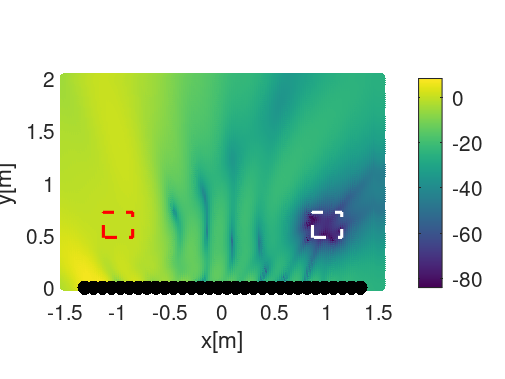
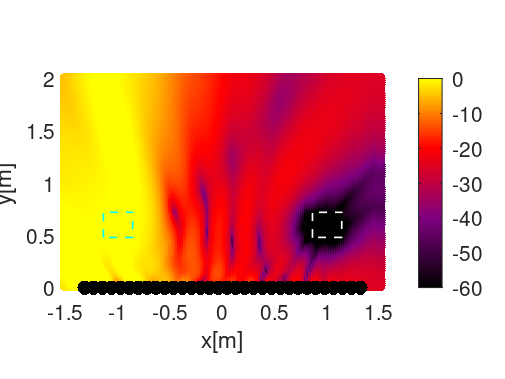
mainでの一括設定・音圧分布のカラー/破線変更

diff --git a/main.m b/main.m
@@ -16,19 +16,27 @@ pltSPL = true;    % pltSPL = 空間全体の音圧レベル分布図
 mthd_ctrl = "pm"; % 音場制御の手法 = PM法
 
 %% -------------------------------------------------------------------------
+%% 空間および制御ゾーンの設定
+%% -------------------------------------------------------------------------
+% 部屋の大きさ [xの最小値, xの最大値, yの最小値, yの最大値]
+room_size = [-1.5, 1.5, 0.02, 2.0];
+itv_room = 0.02;          % 空間全体の計算用格子点の間隔 [m]
+
 %% スピーカーとマイクの配置
-%% -------------------------------------------------------------------------
 num_sp = 32;      % 使用するスピーカー数
-num_mic = 64;     % 使用する制御点の総数
-zone_h = 0.6;     % スピーカーアレイから、制御ゾーンの中心までの垂直距離 [m]
+% 制御ゾーン（Bz, Dz）の設定
+zone_h = 0.6;             % 制御ゾーンの中心高さ(y座標) [m]
+dist_zone = 2.0;          % BzとDzの中心間距離 [m]
+bz_size = [0.28, 0.24];   % Bzの大きさ [幅(x), 奥行き(y)] [m]
+dz_size = [0.28, 0.24];   % Dzの大きさ [幅(x), 奥行き(y)] [m]
 
-% 外部関数 pos_sp_mic.m を呼び出し、スピーカーとマイクの座標を取得
-% pos_sp  : スピーカーの座標行列 [32行 × 2列 (x, y)]
-% pos_mic : マイクの座標行列 [64行 × 2列 (x, y)]
-[pos_sp, pos_mic] = pos_sp_mic(num_sp, num_mic, zone_h, pltPos);
+% 制御点（マイク）の配置間隔 [x方向, y方向]
+itv_mic = [0.04, 0.08];
+
+[pos_sp, pos_mic, num_mic, num_bz] = pos_sp_mic(num_sp, zone_h,dist_zone, bz_size, dz_size, itv_mic, room_size, pltPos);
 
 %% -------------------------------------------------------------------------
-%% 自由空間の伝達関数計算 
+%% 自由空間の伝達関数計算
 %% -------------------------------------------------------------------------
 % 外部関数 IR_freefield.m を呼び出し、各スピーカーから各マイクへの音の伝わり方を計算
 % G_ctrl : 伝達関数行列[64マイク × 32スピーカー × 1周波数]
@@ -38,20 +46,18 @@ G_ctrl = IR_freefield(pos_mic, pos_sp, k);
 %% フィルターの算出と音場制御
 %% -------------------------------------------------------------------------
 % 外部関数 filter_pm.m を呼び出し、PM法に基づいてスピーカーの駆動重みを計算
-% drv : 各スピーカーに出力する複素数フィルター（振幅と位相の補正値）[32スピーカー × 1周波数]
-drv = filter_pm(pos_mic, G_ctrl, freq, ang_wave, amp_src, Nsrc, c);
+drv = filter_pm(pos_mic, G_ctrl, freq, ang_wave, amp_src, Nsrc, c,num_bz);
 
 %% -------------------------------------------------------------------------
 %% 制御結果の評価
 %% -------------------------------------------------------------------------
 % 各スピーカーの伝達関数にフィルターを掛け合わせ、制御点での合成音圧を計算
-% p_ctrl : 64個のマイク位置における実際の合成複素音圧 [64行 × 1列]
 p_ctrl = G_ctrl * drv;
 
 % マイク群を「Bz」と「Dz」に半分ずつ分割
 num_bz = num_mic / 2;          % BZのマイク数（32点）
-p_bz = p_ctrl(1:num_bz);       % 前半1〜32点：BZの音圧
-p_dz = p_ctrl(num_bz+1:end);   % 後半33〜64点：Dzの音圧
+p_bz = p_ctrl(1:num_bz);       % 前半：BZの音圧
+p_dz = p_ctrl(num_bz+1:end);   % 後半：Dzの音圧
 
 % ACの計算
 % BZの平均音響エネルギーと、DZの平均音響エネルギーの比をデシベル(dB)で算出
@@ -62,7 +68,7 @@ AC_freq = 10 * log10(sum(abs(p_bz).^2) ./ sum(abs(p_dz).^2));
 SPL_ctrl = 10 * log10(abs(p_ctrl).^2);
 
 %% -------------------------------------------------------------------------
-%% 空間全体の音圧分布図の作成と結果表示 
+%% 空間全体の音圧分布図の作成と結果表示
 %% -------------------------------------------------------------------------
 % 保存する画像ファイル名の生成
 map_name = sprintf("SPL_sp%d_mic%d_%dHz_center_%.2fm_AC=%.2f_%s.png", ...

diff --git a/pos_sp_mic.m b/pos_sp_mic.m
@@ -1,6 +1,6 @@
 # スピーカーとマイクの配置座標を計算する関数
 
-function [pos_sp, pos_mic] = pos_sp_mic(num_sp, num_mic, y_center, pltPos)
+function [pos_sp, pos_mic, num_mic, num_bz] = pos_sp_mic(num_sp, y_center, dist_zone, bz_size, dz_size, itv_mic, room_size, pltPos)
     
     % スピーカーの配置形状を切り替えるフラグ（false: 直線状 / true: 円弧状）
     isArc = false; 
@@ -8,28 +8,38 @@ function [pos_sp, pos_mic] = pos_sp_mic(num_sp, num_mic, y_center, pltPos)
     %% ---------------------------------------------------------------------
     %% 制御ゾーンの座標計算
     %% ---------------------------------------------------------------------
-    itv_x=0.04;
-    itv_y=0.08;
-    d1=0.28;%width
-    d2=0.24;%length
-    dist_zone= 2.0;%distance of centers of bright and dark zones
+
+    % ブライトゾーンの計算
+    bz_x = -bz_size(1)/2 : itv_mic(1) : bz_size(1)/2;
+    bz_y = y_center - bz_size(2)/2 : itv_mic(2) : y_center + bz_size(2)/2;
     
-    bz_x=-d1/2:itv_x:d1/2;
-    bz_y=y_center-d2/2:itv_y:y_center+d2/2;
-    
-    pos_bz=zeros(num_mic/2,2);
-    pos_dz=zeros(num_mic/2,2);
+    pos_bz = zeros(length(bz_x) * length(bz_y), 2);
+
     n=0;
-    for x_idx=1:length(bz_x)
-        for y_idx=1:length(bz_y)
-            n=n+1;
-            pos_bz(n,:)=[bz_x(x_idx)-dist_zone/2 bz_y(y_idx)];
-            pos_dz(n,:)=[bz_x(x_idx)+dist_zone/2 bz_y(y_idx)];
+    for x_idx = 1:length(bz_x)
+        for y_idx = 1:length(bz_y)
+            n = n + 1;
+            pos_bz(n,:) = [bz_x(x_idx) - dist_zone/2, bz_y(y_idx)];
+        end
+    end
+    num_bz = n; % BZのマイク数を保存
+    
+    % ダークゾーンの計算
+    dz_x = -dz_size(1)/2 : itv_mic(1) : dz_size(1)/2;
+    dz_y = y_center - dz_size(2)/2 : itv_mic(2) : y_center + dz_size(2)/2;
+    
+    pos_dz = zeros(length(dz_x) * length(dz_y), 2);
+    n = 0;
+    for x_idx = 1:length(dz_x)
+        for y_idx = 1:length(dz_y)
+            n = n + 1;
+            pos_dz(n,:) = [dz_x(x_idx) + dist_zone/2, dz_y(y_idx)];
         end
     end
     
-    % 前半32点がブライト、後半32点がダークとなるよう1つの行列に結合 [64行 × 2列]
+    % BZとDZを結合し、総マイク数を算出
     pos_mic = [pos_bz; pos_dz];
+    num_mic = size(pos_mic, 1);
 
     %% ---------------------------------------------------------------------
     %% スピーカーアレイ（音源）の座標計算
@@ -66,7 +76,7 @@ function [pos_sp, pos_mic] = pos_sp_mic(num_sp, num_mic, y_center, pltPos)
     %% 配置図の描画と画像保存
     %% ---------------------------------------------------------------------
     if pltPos
-        clf 
+        figure % 新しいグラフウィンドウを開く
         
         % スピーカー位置を黒い「▲」でプロット
         h1 = scatter(pos_sp(:,1), pos_sp(:,2), 'k', '^', 'filled'); hold on;
@@ -74,8 +84,8 @@ function [pos_sp, pos_mic] = pos_sp_mic(num_sp, num_mic, y_center, pltPos)
         h2 = scatter(pos_mic(:,1), pos_mic(:,2), 10, 'filled');
         
         daspect([1 1 1])    % グラフの縦横比（アスペクト比）を 1:1 に固定（空間の歪みをなくす）
-        xlim([-1.5,1.5 ])   % x軸の表示範囲を -1.5m 〜 1.5m に設定
-        ylim([0, 2])        % y軸の表示範囲を 0m 〜 2m に設定
+        xlim([room_size(1), room_size(2)])   % x軸の表示範囲
+        ylim([room_size(3), room_size(4)])        % y軸の表示範囲
         grid on;            % グリッド線を表示
         
         xlabel("x[m]"); ylabel("y[m]"); % 軸ラベルの設定

diff --git a/filter_pm.m b/filter_pm.m
@@ -1,4 +1,4 @@
-function drv_ls = filter_pm(mic_geo, G, f, ang_wave, amp_src, Nsrc, c)
+function drv_ls = filter_pm(mic_geo, G, f, ang_wave, amp_src, Nsrc, c ,num_bz)
 
     % Gのサイズ取得
     % n_mic : 制御点(マイク)数
@@ -42,15 +42,15 @@ function drv_ls = filter_pm(mic_geo, G, f, ang_wave, amp_src, Nsrc, c)
 
         p_des_bz = amp_src .* exp( ...
             1i * (2*pi*f(kk)/c) * ...
-            (mic_geo(1:n_mic/2,1)*cos(ang_wave) + ...
-             mic_geo(1:n_mic/2,2)*sin(ang_wave)));
+            (mic_geo(1:num_bz,1)*cos(ang_wave) + ...
+             mic_geo(1:num_bz,2)*sin(ang_wave)));
 
         %--------------------------------------------------
         % Dark Zone の目標音圧
         %
         % 音を聞こえなくしたいので0
         %--------------------------------------------------
-        p_des_dz = zeros(n_mic/2, Nsrc);
+        p_des_dz = zeros(n_mic - num_bz, Nsrc);
 
         %--------------------------------------------------
         % 全制御点の目標音圧ベクトル
